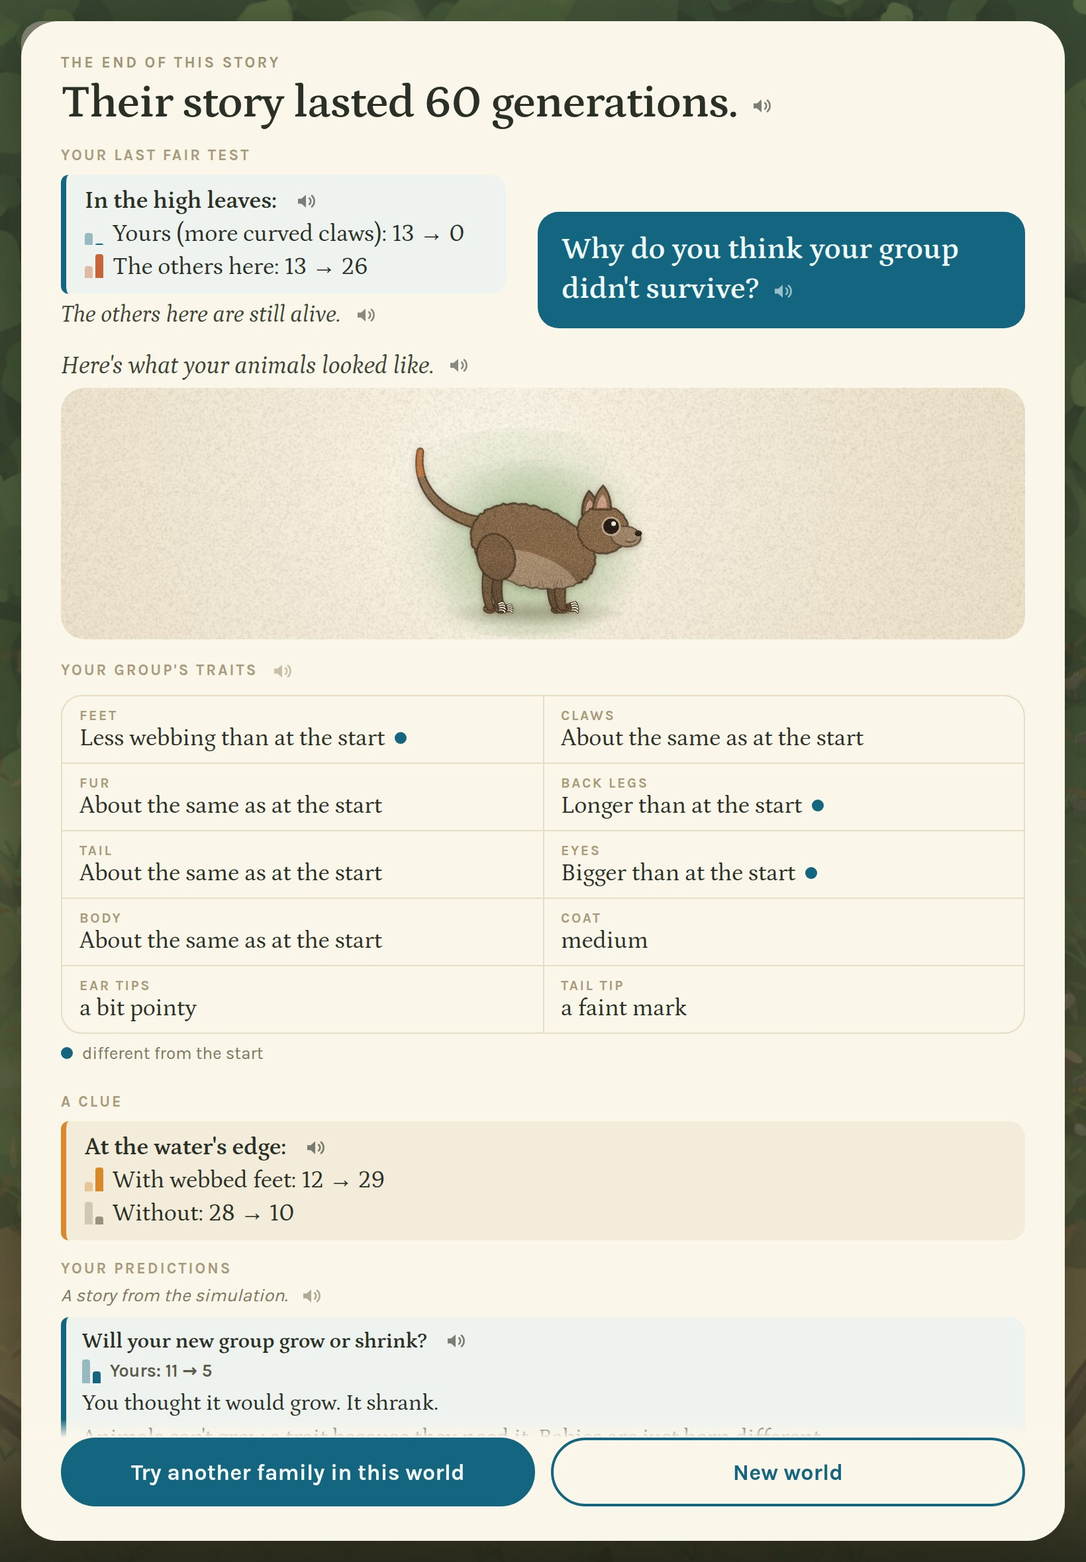
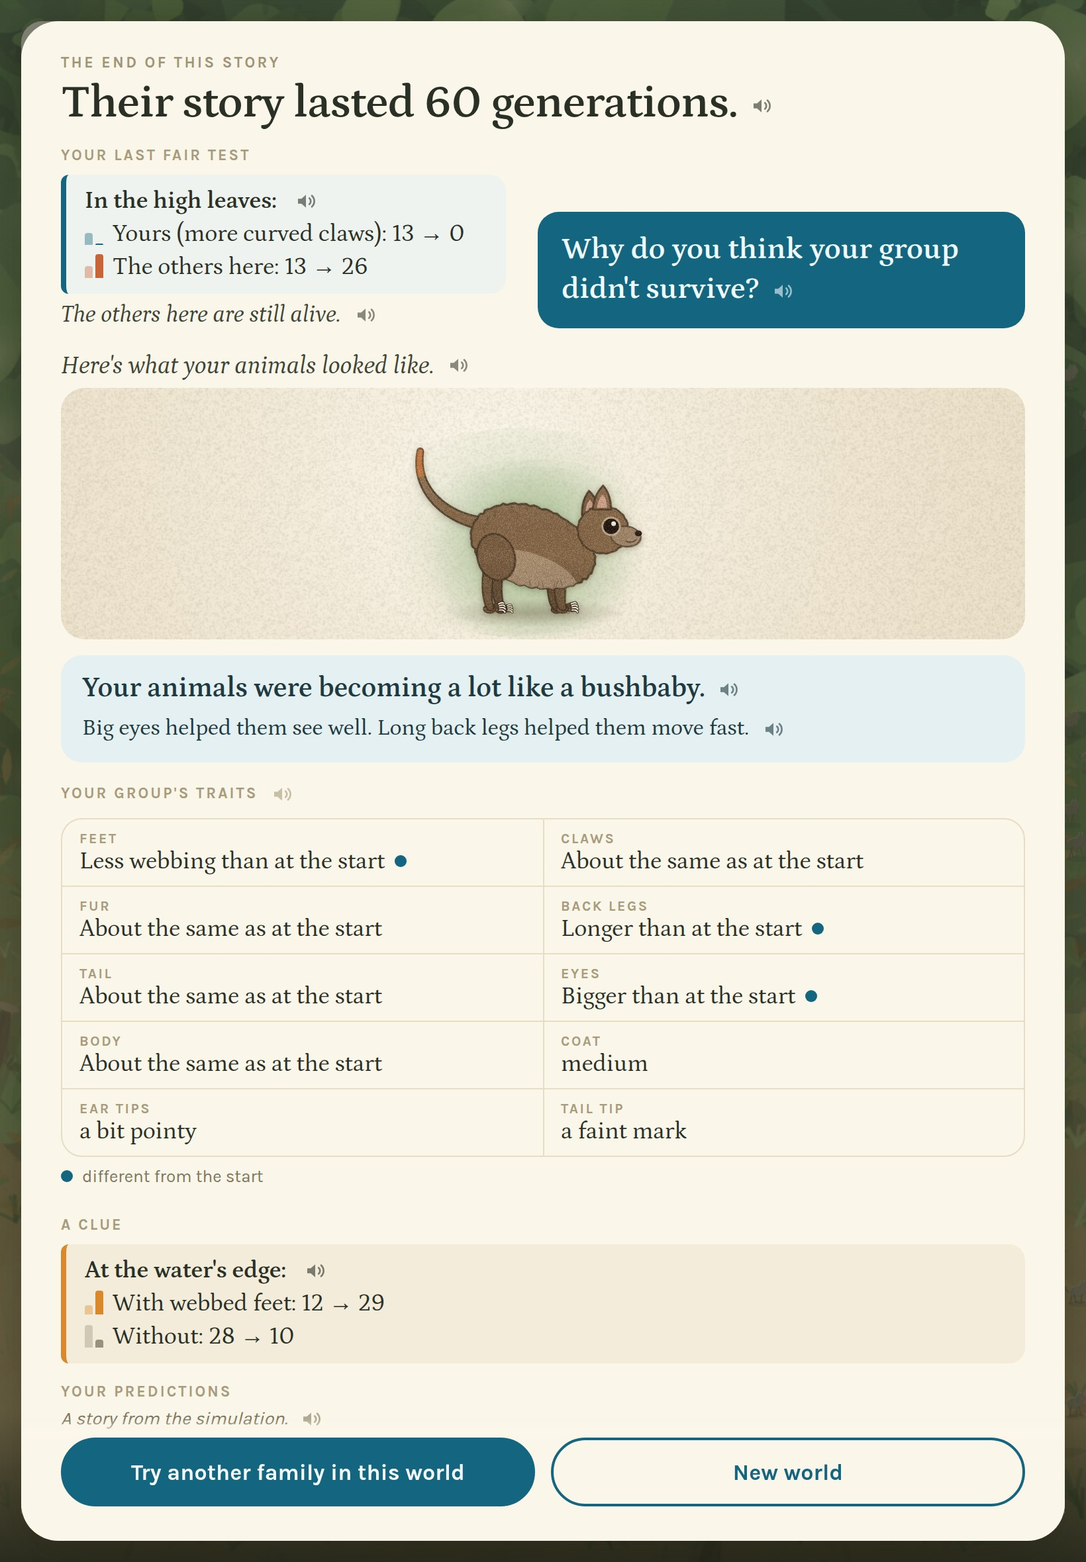
A reveal on every ending
- Every ending shows the real-animal reveal, from the group's actual average
  traits and main habitat when the story ended (its last living members),
  with the same table, matching rule and "why" filter.
- A group that died out gets it in the past tense ("Your animals were
  becoming a lot like a sloth."), with past-tense "why" lines; it sits
  after the fair test and the question. A family that dies before any
  follow gets one too.
- The died-out moment shows it; its screenshots and the ending's were shot
  again.
- Scope doc decision 40; the reveal doc gets the past-tense lines and the
  counts across the 270 stories.

Claude-Session: https://claude.ai/code/session_01GSopAEV6FFZ4i4mLAerJib

diff --git a/game/src/reveal.js b/game/src/reveal.js
@@ -3,10 +3,12 @@
  * matching rule and the checks live in docs/LINEAGE_REAL_ANIMAL_REVEAL.md;
  * this file must match it.
  *
- * A surviving group is shown the real animal it is most like, from its actual
- * average traits at the end and the habitat where most of it lives. The
- * choices the child made play no part. There is no correct answer: every
- * surviving group becomes something.
+ * Every ending shows the real animal the group is most like, from its actual
+ * average traits and the habitat where most of it lived when the story ended
+ * (scope decision 40). A group that died out gets the same match in the past
+ * tense ("Your animals were becoming a lot like a sloth."). The choices the
+ * child made play no part. There is no correct answer: every group becomes
+ * something.
  *
  * The reveal reflects what changed (scope decision 13): trait levels are
  * relative to the generation-0 world, and each animal needs its signature
@@ -32,10 +34,11 @@ export const ANIMALS = [
     profile: { toe_webbing: "high", strong_tail: "high", streamlined_body: "high", curved_claws: "low" },
     signature: { toe_webbing: "high", streamlined_body: "high" },
     reveal: "Your animals became swimmers, a lot like a river otter.",
+    revealPast: "Your animals were becoming a lot like a river otter.",
     why: [
-      { text: "Webbed feet push through water.", credits: { toe_webbing: "high" } },
-      { text: "A strong tail helps them swim.", credits: { strong_tail: "high" } },
-      { text: "A sleek body slides through the water easily.", credits: { streamlined_body: "high" } },
+      { text: "Webbed feet push through water.", past: "Webbed feet pushed them through water.", credits: { toe_webbing: "high" } },
+      { text: "A strong tail helps them swim.", past: "A strong tail helped them swim.", credits: { strong_tail: "high" } },
+      { text: "A sleek body slides through the water easily.", past: "A sleek body slid through the water easily.", credits: { streamlined_body: "high" } },
     ],
   },
   {
@@ -43,9 +46,10 @@ export const ANIMALS = [
     profile: { toe_webbing: "high", strong_tail: "high", dense_fur: "high", streamlined_body: "low" },
     signature: { toe_webbing: "high", strong_tail: "high" },
     reveal: "Your animals became paddlers, a lot like a beaver.",
+    revealPast: "Your animals were becoming a lot like a beaver.",
     why: [
-      { text: "Webbed feet and a strong tail push them through water.", credits: { toe_webbing: "high", strong_tail: "high" } },
-      { text: "Thick fur keeps them warm, but it slows their swimming.", credits: { dense_fur: "high" } },
+      { text: "Webbed feet and a strong tail push them through water.", past: "Webbed feet and a strong tail pushed them through water.", credits: { toe_webbing: "high", strong_tail: "high" } },
+      { text: "Thick fur keeps them warm, but it slows their swimming.", past: "Thick fur kept them warm, but it slowed their swimming.", credits: { dense_fur: "high" } },
     ],
   },
   {
@@ -53,9 +57,10 @@ export const ANIMALS = [
     profile: { toe_webbing: "high", strong_tail: "low", long_hindlimbs: "high" },
     signature: { toe_webbing: "high", long_hindlimbs: "high" },
     reveal: "Your animals live between land and water, a lot like a capybara.",
+    revealPast: "Your animals were becoming a lot like a capybara.",
     why: [
-      { text: "Webbed toes help them swim.", credits: { toe_webbing: "high" } },
-      { text: "Long back legs help on land, but slow them in water.", credits: { long_hindlimbs: "high" } },
+      { text: "Webbed toes help them swim.", past: "Webbed toes helped them swim.", credits: { toe_webbing: "high" } },
+      { text: "Long back legs help on land, but slow them in water.", past: "Long back legs helped on land, but slowed them in water.", credits: { long_hindlimbs: "high" } },
     ],
   },
   {
@@ -63,9 +68,10 @@ export const ANIMALS = [
     profile: { curved_claws: "high", toe_webbing: "low", streamlined_body: "low" },
     signature: { curved_claws: "high" },
     reveal: "Your animals became climbers, a lot like a squirrel.",
+    revealPast: "Your animals were becoming a lot like a squirrel.",
     why: [
-      { text: "Curved claws grip the branches.", credits: { curved_claws: "high" } },
-      { text: "Toes without webbing hold on tight.", credits: { toe_webbing: "low" } },
+      { text: "Curved claws grip the branches.", past: "Curved claws gripped the branches.", credits: { curved_claws: "high" } },
+      { text: "Toes without webbing hold on tight.", past: "Toes without webbing held on tight.", credits: { toe_webbing: "low" } },
     ],
   },
   {
@@ -73,9 +79,10 @@ export const ANIMALS = [
     profile: { curved_claws: "high", dense_fur: "high", long_hindlimbs: "low", large_eyes: "low" },
     signature: { curved_claws: "high", dense_fur: "high" },
     reveal: "Your animals became slow, careful climbers, a lot like a sloth.",
+    revealPast: "Your animals were becoming a lot like a sloth.",
     why: [
-      { text: "Big curved claws hold on to branches.", credits: { curved_claws: "high" } },
-      { text: "Thick fur keeps them warm.", credits: { dense_fur: "high" } },
+      { text: "Big curved claws hold on to branches.", past: "Big curved claws held on to branches.", credits: { curved_claws: "high" } },
+      { text: "Thick fur keeps them warm.", past: "Thick fur kept them warm.", credits: { dense_fur: "high" } },
     ],
   },
   {
@@ -84,9 +91,10 @@ export const ANIMALS = [
     profile: { large_eyes: "high", long_hindlimbs: "high" },
     signature: { large_eyes: "high" },
     reveal: "Your animals became night leapers, a lot like a bushbaby.",
+    revealPast: "Your animals were becoming a lot like a bushbaby.",
     why: [
-      { text: "Big eyes help them see well.", credits: { large_eyes: "high" } },
-      { text: "Long back legs help them move fast.", credits: { long_hindlimbs: "high" } },
+      { text: "Big eyes help them see well.", past: "Big eyes helped them see well.", credits: { large_eyes: "high" } },
+      { text: "Long back legs help them move fast.", past: "Long back legs helped them move fast.", credits: { long_hindlimbs: "high" } },
     ],
   },
   {
@@ -94,10 +102,11 @@ export const ANIMALS = [
     profile: { long_hindlimbs: "high", strong_tail: "low", large_eyes: "high" },
     signature: { long_hindlimbs: "high" },
     reveal: "Your animals became runners, a lot like a hare.",
+    revealPast: "Your animals were becoming a lot like a hare.",
     why: [
-      { text: "Long back legs help them run fast.", credits: { long_hindlimbs: "high" } },
-      { text: "Big eyes help them see well.", credits: { large_eyes: "high" } },
-      { text: "A small tail doesn't slow them down.", credits: { strong_tail: "low" } },
+      { text: "Long back legs help them run fast.", past: "Long back legs helped them run fast.", credits: { long_hindlimbs: "high" } },
+      { text: "Big eyes help them see well.", past: "Big eyes helped them see well.", credits: { large_eyes: "high" } },
+      { text: "A small tail doesn't slow them down.", past: "A small tail didn't slow them down.", credits: { strong_tail: "low" } },
     ],
   },
   {
@@ -105,7 +114,8 @@ export const ANIMALS = [
     profile: { large_eyes: "high", long_hindlimbs: "low", strong_tail: "low" },
     signature: { large_eyes: "high", long_hindlimbs: "not high" },
     reveal: "Your animals became lookouts, a lot like a meerkat.",
-    why: [{ text: "Big eyes help them see well across open ground.", credits: { large_eyes: "high" } }],
+    revealPast: "Your animals were becoming a lot like a meerkat.",
+    why: [{ text: "Big eyes help them see well across open ground.", past: "Big eyes helped them see well across open ground.", credits: { large_eyes: "high" } }],
   },
 ];
 
@@ -113,8 +123,9 @@ export const ANIMALS = [
 export const FIRST_MAMMALS = {
   name: "The first mammals (tree shrew)", zone: null, profile: {}, signature: {},
   reveal: "Your animals stayed like the very first mammals, like a tree shrew.",
+  revealPast: "Your animals stayed like the very first mammals, like a tree shrew.",
   why: [
-    { text: "Their bodies didn't change much, and that worked.", credits: {} },
+    { text: "Their bodies didn't change much, and that worked.", past: "Their bodies didn't change much.", credits: {} },
     { text: "Some animals today still look a lot like their ancient relatives.", credits: {} },
   ],
 };
@@ -153,7 +164,7 @@ function hasSignature(animal, average, base, gap) {
  * @param {number} zone the habitat most of the group lives in (engine zone index)
  * @param {ArrayLike<number>} base the generation-0 world mean for each trait
  * @param {number} [gap]
- * @returns {{animal: RevealAnimal, matched: number, checked: number, strength: number, why: string[]}}
+ * @returns {{animal: RevealAnimal, matched: number, checked: number, strength: number, why: string[], whyPast: string[]}}
  */
 export function revealFor(average, zone, base, gap = GAP) {
   let best = null;
@@ -165,7 +176,8 @@ export function revealFor(average, zone, base, gap = GAP) {
   }
   const found = best ?? { animal: FIRST_MAMMALS, matched: 0, checked: 0, strength: 0 };
   const has = (credits) => Object.entries(credits).every(([trait, level]) => margin(trait, level, average, base, gap) >= 0);
-  return { ...found, why: found.animal.why.filter((w) => has(w.credits)).map((w) => w.text) };
+  const shown = found.animal.why.filter((w) => has(w.credits));
+  return { ...found, why: shown.map((w) => w.text), whyPast: shown.map((w) => w.past ?? w.text) };
 }
 
 /**
@@ -175,5 +187,7 @@ export function revealFor(average, zone, base, gap = GAP) {
  * @property {Object<string, "high"|"low">} profile the checked traits
  * @property {Object<string, "high"|"low"|"not high">} signature what the group must have to qualify
  * @property {string} reveal the reveal line
- * @property {Array<{text:string, credits:Object<string, "high"|"low">}>} why its "why" sentences and the traits each credits
+ * @property {string} revealPast the reveal line when the group died out
+ * @property {Array<{text:string, past?:string, credits:Object<string, "high"|"low">}>} why its "why" sentences (and their past
+ *   tense, when the group died out) and the traits each credits
  */

diff --git a/game/src/story.js b/game/src/story.js
@@ -105,7 +105,7 @@ export class Story {
     this.mainZone = null;
     /** the whole world's mean for each trait at the start (generation 0): the base for relative reveal levels */
     this.startWorld = null;
-    /** @type {null|{animal: import("./reveal.js").RevealAnimal, why:string[], matched:number, checked:number, strength:number}} a surviving group's real animal */
+    /** @type {null|{animal: import("./reveal.js").RevealAnimal, why:string[], whyPast:string[], matched:number, checked:number, strength:number}} the group's real animal, on every ending */
     this.reveal = null;
     /** @type {Map<number, {id:number, genome:ArrayLike<number>, zone:number}>} everyone in the group since it last formed */
     this.segment = new Map();
@@ -326,10 +326,9 @@ export class Story {
     const segment = [...this.segment.values()], living = this.bridge.livingAnimals();
     this.comparison = comparisonFor(segment, living, this.startCensus);
     this.evidence = evidenceFor(segment, living, this.startCensus);
-    // Scope decision 10: from the group's actual average traits and main habitat, never its choices.
-    if (outcome === "survived") {
-      this.reveal = revealFor(averageOf(this.lastAnimals.map((a) => a.genome)).map((a) => a.mean), this.mainZone, this.startWorld);
-    }
+    // Scope decisions 10 and 40: on every ending, from the group's actual average traits and main habitat
+    // when the story ended (its last living members), never its choices.
+    this.reveal = revealFor(averageOf(this.lastAnimals.map((a) => a.genome)).map((a) => a.mean), this.mainZone, this.startWorld);
     return "ended";
   }
 }

diff --git a/game/src/main.js b/game/src/main.js
@@ -669,12 +669,14 @@ export class Game {
       li.append(this.predictionBlock(p, p.question.text));
       return li;
     }));
-    // The real-animal reveal (scope decision 10, docs/LINEAGE_REAL_ANIMAL_REVEAL.md): a surviving
-    // group's actual average traits and main habitat, never its choices. Text for now; art comes later.
+    // The real-animal reveal on every ending (scope decisions 10 and 40, docs/LINEAGE_REAL_ANIMAL_REVEAL.md):
+    // the group's actual average traits and main habitat when the story ended, never its choices.
+    // A group that died out gets it in the past tense. Text for now; art comes later.
     this.revealEl.hidden = !s.reveal;
     if (s.reveal) {
-      this.revealLine.set(s.reveal.animal.reveal);
-      this.revealWhy.set(s.reveal.why.join(" ")); // only the sentences whose traits the group has
+      const died = s.outcome === "died";
+      this.revealLine.set(died ? s.reveal.animal.revealPast : s.reveal.animal.reveal);
+      this.revealWhy.set((died ? s.reveal.whyPast : s.reveal.why).join(" ")); // only the sentences whose traits the group has
     }
     this.endingEl.hidden = false;
     paintCreature(this.endingAnimalEl, average, { seed: s.startGeneration + 1, habitat: s.mainZone });

diff --git a/docs/LINEAGE_REAL_ANIMAL_REVEAL.md b/docs/LINEAGE_REAL_ANIMAL_REVEAL.md
@@ -84,6 +84,42 @@ The first mammals (tree shrew)
 - Reveal: "Your animals stayed like the very first mammals, like a tree shrew."
 - Why: "Their bodies didn't change much, and that worked. Some animals today still look a lot like their ancient relatives."
 
+## Died-out endings (2026-09-24, scope decision 40)
+
+Every ending gets a reveal, not only a surviving one. It uses the group's actual average traits and main habitat when the story ended (its last living members), with the same table, the same matching rule and the same "why" filter. A group that died out gets the reveal in the past tense:
+
+| Animal | Reveal when the group died out |
+|---|---|
+| River otter | "Your animals were becoming a lot like a river otter." |
+| Beaver | "Your animals were becoming a lot like a beaver." |
+| Capybara | "Your animals were becoming a lot like a capybara." |
+| Squirrel | "Your animals were becoming a lot like a squirrel." |
+| Sloth | "Your animals were becoming a lot like a sloth." |
+| Bushbaby | "Your animals were becoming a lot like a bushbaby." |
+| Hare | "Your animals were becoming a lot like a hare." |
+| Meerkat | "Your animals were becoming a lot like a meerkat." |
+| The first mammals | "Your animals stayed like the very first mammals, like a tree shrew." (already past) |
+
+The "why" lines about the group's animals are in the past tense too:
+- "Webbed feet pushed them through water."
+- "A strong tail helped them swim."
+- "A sleek body slid through the water easily."
+- "Webbed feet and a strong tail pushed them through water."
+- "Thick fur kept them warm, but it slowed their swimming."
+- "Webbed toes helped them swim."
+- "Long back legs helped on land, but slowed them in water."
+- "Curved claws gripped the branches."
+- "Toes without webbing held on tight."
+- "Big curved claws held on to branches."
+- "Thick fur kept them warm."
+- "Big eyes helped them see well."
+- "Long back legs helped them move fast."
+- "Long back legs helped them run fast."
+- "A small tail didn't slow them down."
+- "Big eyes helped them see well across open ground."
+
+The fallback's first line becomes "Their bodies didn't change much.", because "and that worked" is not true of a group that died out. "Some animals today still look a lot like their ancient relatives." stays as it is.
+
 ## Matching rule
 1. Only animals from the group's end habitat are considered, plus the fallback.
 2. An animal qualifies only if the group has its signature trait(s).
@@ -125,6 +161,26 @@ Results:
 - **The first mammals:** no trait is credited. Unchanged, except that the reveal line was shortened from 14 words to 12 for read-aloud.
 
 No animal was added, removed or renamed.
+
+### How often each reveal appears on every ending (2026-09-24)
+
+With active choosing and the adaptive fair test (scope decisions 32–40), measured on the 270 stories with the same simulated child: 36 survive and 234 die out, 40 of them before any follow.
+
+| Reveal | Survived | Died out |
+|---|---|---|
+| River otter | 3 | 19 |
+| Beaver | 0 | 19 |
+| Capybara | 2 | 10 |
+| Squirrel | 4 | 37 |
+| Sloth | 5 | 7 |
+| Bushbaby | 12 | 18 |
+| Hare | 5 | 16 |
+| Meerkat | 0 | 9 |
+| The first mammals (tree shrew) | 5 | 99 |
+
+- A died-out ending gets the fallback in 99 of 234 (42%).
+- Of the families that die before any follow, 33 of 40 get it (83%): their bodies barely changed.
+- Every reveal line and "why" line shown is 12 words or fewer (46 lines).
 
 ### How often each reveal appears (balance round: relative levels, GAP 0.12, signatures)
 

diff --git a/design/current/README.md b/design/current/README.md
@@ -46,7 +46,7 @@ The moments deep in a story take a few seconds to reach. A small "getting there"
 | **A prediction** | `?moment=prediction` | The journal's question right after the first follow (generation 4, family 1): "Will your new group grow or shrink?" with four answers in a random order, each with a speaker, and a 15-second bar. The world waits behind it. | `prediction-*.jpg` · main.js (`openJournal`, `tickJournal`), journal.js (`questionFor`, with `docs/LINEAGE_PREDICTION_QUESTIONS.md`), index.html and styles.css (`#journal`) |
 | **A prediction's result** | `?moment=prediction-result` | The second follow (generation 11): the "Since your last choice" sheet with "Yours (thinner fur): 11 → 5", "The others here: 11 → 10", then "Your prediction:" with "You thought it would grow. It shrank." The shortcut picks the "need" answer, so the need line follows. "Next" (or 15 s) goes on to the new follow. | `prediction-result-*.jpg` · main.js (`openSince`, `fillSince`, `predictionBlock`), journal.js (`resultOf`), styles.css (`#since`, `.prediction`) |
 | **The ending** | `?moment=ending` | A surviving ending after 8 follows: "Your group survived 76 generations." It shows the drawing, the reveal ("a lot like a beaver"), the traits against the start, the question, the clue, "Your last fair test", "Your predictions", the follows and the two buttons. | `ending-*.jpg` · main.js (`showEnding`), creature.js, reveal.js (with `docs/LINEAGE_REAL_ANIMAL_REVEAL.md`), evidence.js (the clue), journal.js (the predictions), variations.js (`comparedRows`), narration.js, styles.css (`#ending`, `#ending-fair`) |
-| **Died out** | `?moment=extinct` | Your group died out after 10 follows: "Their story lasted 60 generations." The ending leads with the fair test (scope decision 37): "In the high leaves: Yours (more curved claws): 13 → 0, The others here: 13 → 26", "The others here are still alive.", then the question. No reveal. | `extinct-*.jpg` · main.js (`showEnding`: `#ending-lead`), narration.js (`OTHERS_DIED_TOO`, `OTHERS_ALIVE`), styles.css (`#ending-lead`) |
+| **Died out** | `?moment=extinct` | Your group died out after 10 follows: "Their story lasted 60 generations." The ending leads with the fair test (scope decision 37): "In the high leaves: Yours (more curved claws): 13 → 0, The others here: 13 → 26", "The others here are still alive.", then the question. Under the drawing, the reveal in the past tense (scope decision 40): "Your animals were becoming a lot like a bushbaby." "Big eyes helped them see well. Long back legs helped them move fast." | `extinct-*.jpg` · main.js (`showEnding`: `#ending-lead`, the reveal's tense), reveal.js (`revealPast`, `whyPast`), narration.js (`OTHERS_DIED_TOO`, `OTHERS_ALIVE`), styles.css (`#ending-lead`) |
 | **A creature card** | `?moment=card` | A card open on an animal with a new trait (generation 1): "New at birth: more webbing between the toes, not from its parents." It glows, so the card offers it: "Only 1 here has this. Watch it?" and "Not this one". A ring marks the animal on the map. | `card-*.jpg` · main.js (`showCard`, `placeCard`, `renderFollow`), creature.js (the drawing), variations.js (`plainRows`), bridge.js (`newTraitOf`), narration.js (card lines), herd.js (the ring), styles.css (`#card`) |
 
 The Step 4 moments map onto these as follows:

diff --git a/LINEAGE_M2_CLASSROOM_SCOPE.md b/LINEAGE_M2_CLASSROOM_SCOPE.md
@@ -210,6 +210,15 @@ LINEAGE should feel like a quiet nature documentary. It is set at golden hour an
      | story length (median generations) | 30 | 36 | 43 |
      | push needed (stories) | 52% | 60% | 70% |
      | webbed tries in the high leaves; webbed worse after 5 | 80; 56 | 69; 53 | 20; 12 |
+40. **A reveal on every ending** (2026-09-24, extends decision 10). Every ending shows the real-animal reveal, not only a story that reaches generation 76. It uses the group's actual average traits and main habitat when the story ended (its last living members), with the same table, matching rule and "why" filter (`docs/LINEAGE_REAL_ANIMAL_REVEAL.md`).
+   - **Survived:** as before ("Your animals became swimmers, a lot like a river otter.").
+   - **Died out:** past tense ("Your animals were becoming a lot like a sloth."), with the "why" lines in the past tense ("Thick fur kept them warm."). It comes after the fair test and the question, so the fair test still leads.
+   - **A family that dies before any follow** also gets one.
+   - `?moment=extinct` (a group that died out after a follow) shows the new reveal, so no new moment was added.
+   *Measured with the same simulated child on the 270 stories (36 survive, 234 die out):*
+   - *Survived: Bushbaby 12, Sloth 5, Hare 5, first mammals 5, Squirrel 4, River otter 3, Capybara 2, Beaver 0, Meerkat 0.*
+   - *Died out: first mammals 99, Squirrel 37, River otter 19, Beaver 19, Bushbaby 18, Hare 16, Capybara 10, Meerkat 9, Sloth 7.*
+   - *A died-out ending gets the fallback in 99 of 234 (42%), and 33 of the 40 families that die before any follow (83%).*
 
 ## What the engine already gives you (do not rebuild these)
 

diff --git a/game/README.md b/game/README.md
@@ -93,7 +93,8 @@ A story that lasts takes about 19 minutes at most, less for each fast-forward.
      meaningful trait and habitat where both sides started with 3 or more animals and grew most
      differently. If none qualifies, it is one line about the group's most distinctive trait
      ("Animals with webbed feet at the water's edge: 12 then, 25 now.");
-   - for a surviving group, **the real-animal reveal** (under the drawing): the animal it is most like, from its
+   - on every ending, **the real-animal reveal** (under the drawing; scope decision 40), in the past
+     tense when the group died out ("Your animals were becoming a lot like a sloth."): the animal it is most like, from its
      actual average traits and main habitat, with its "why" lines (`src/reveal.js`, following
      `docs/LINEAGE_REAL_ANIMAL_REVEAL.md`). Levels are relative to the generation-0 world (GAP
      0.12), and each animal needs its signature trait, so the reveal reflects what changed. Only
